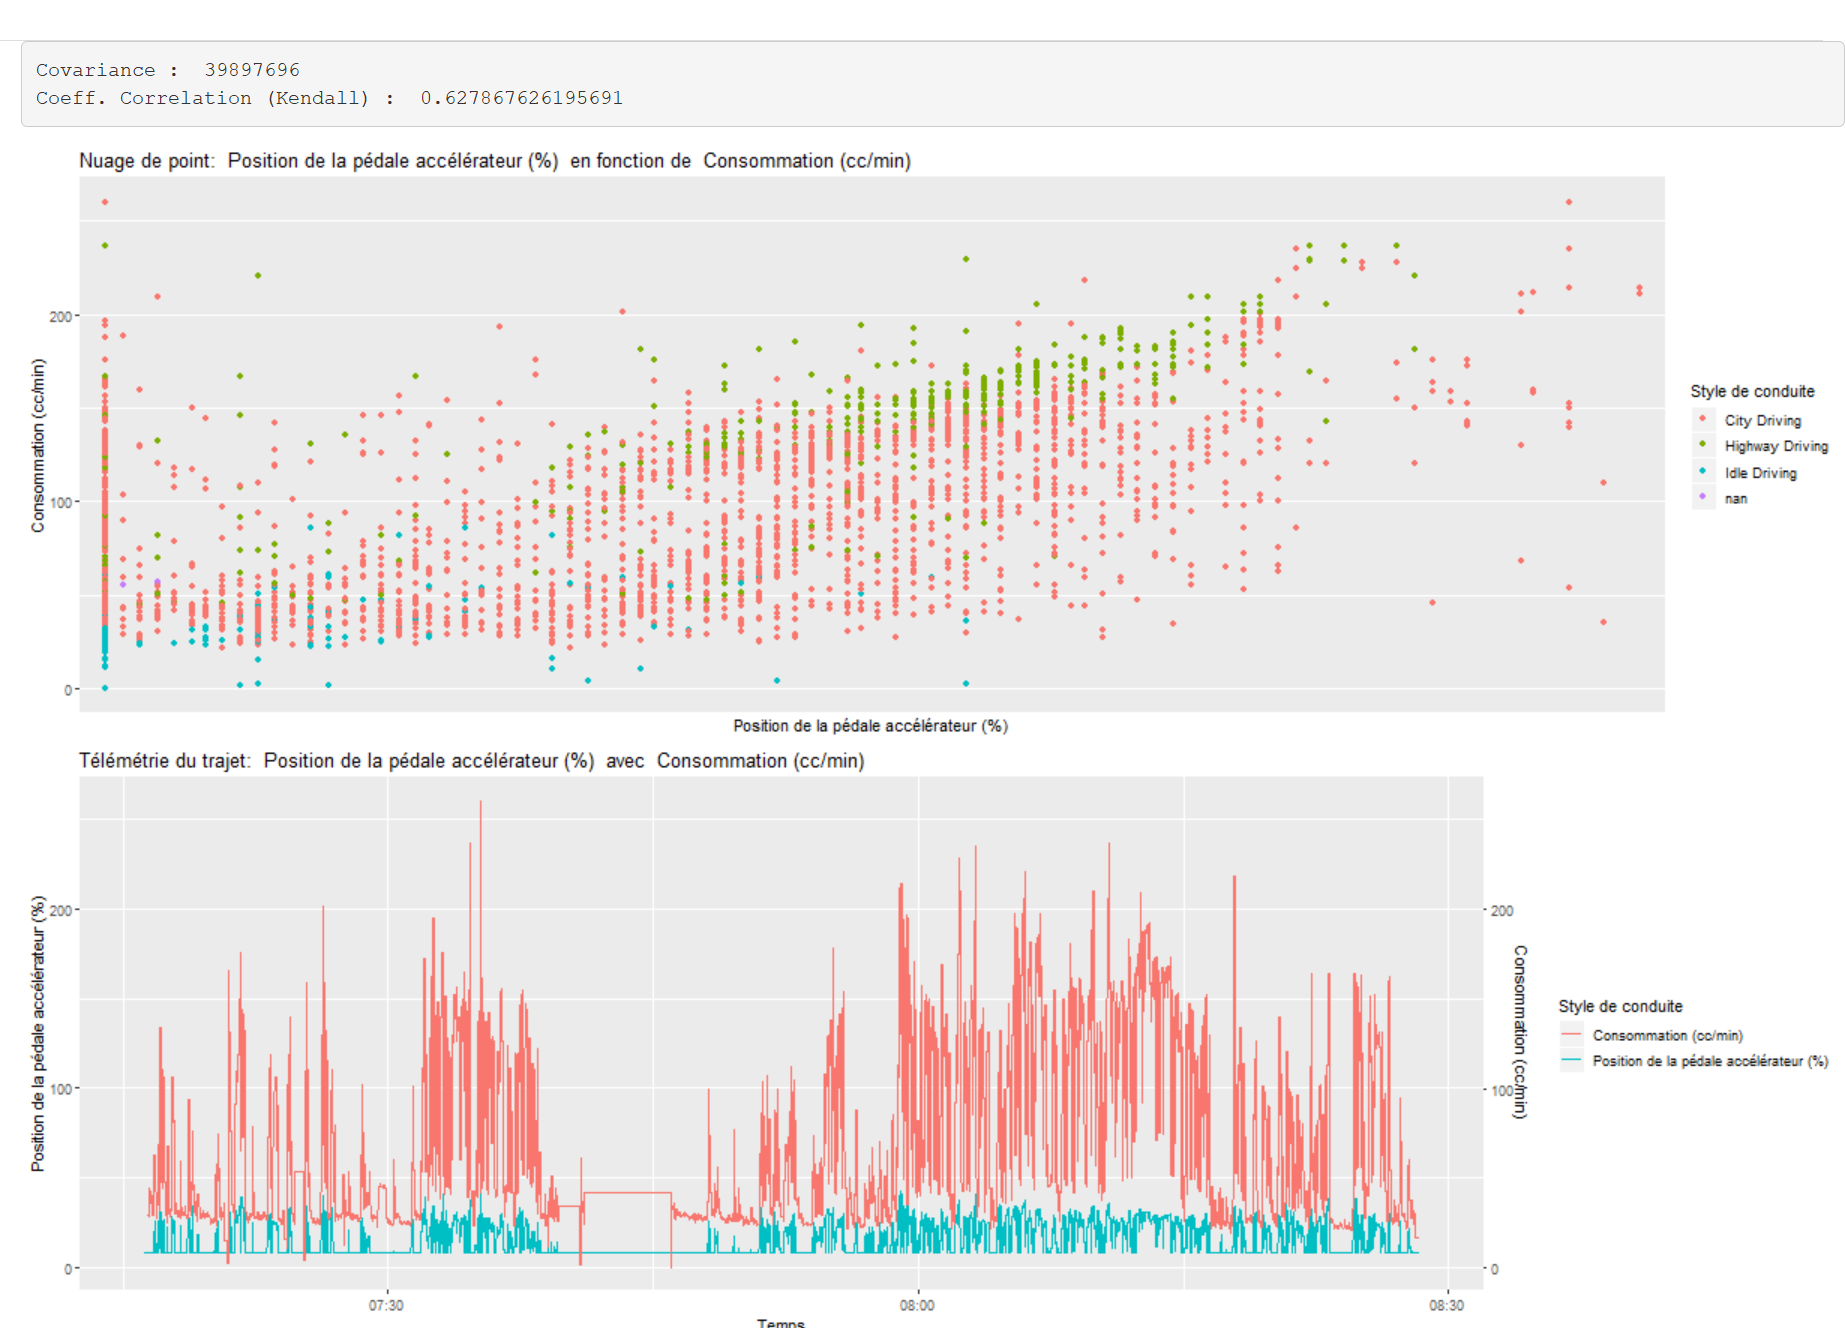
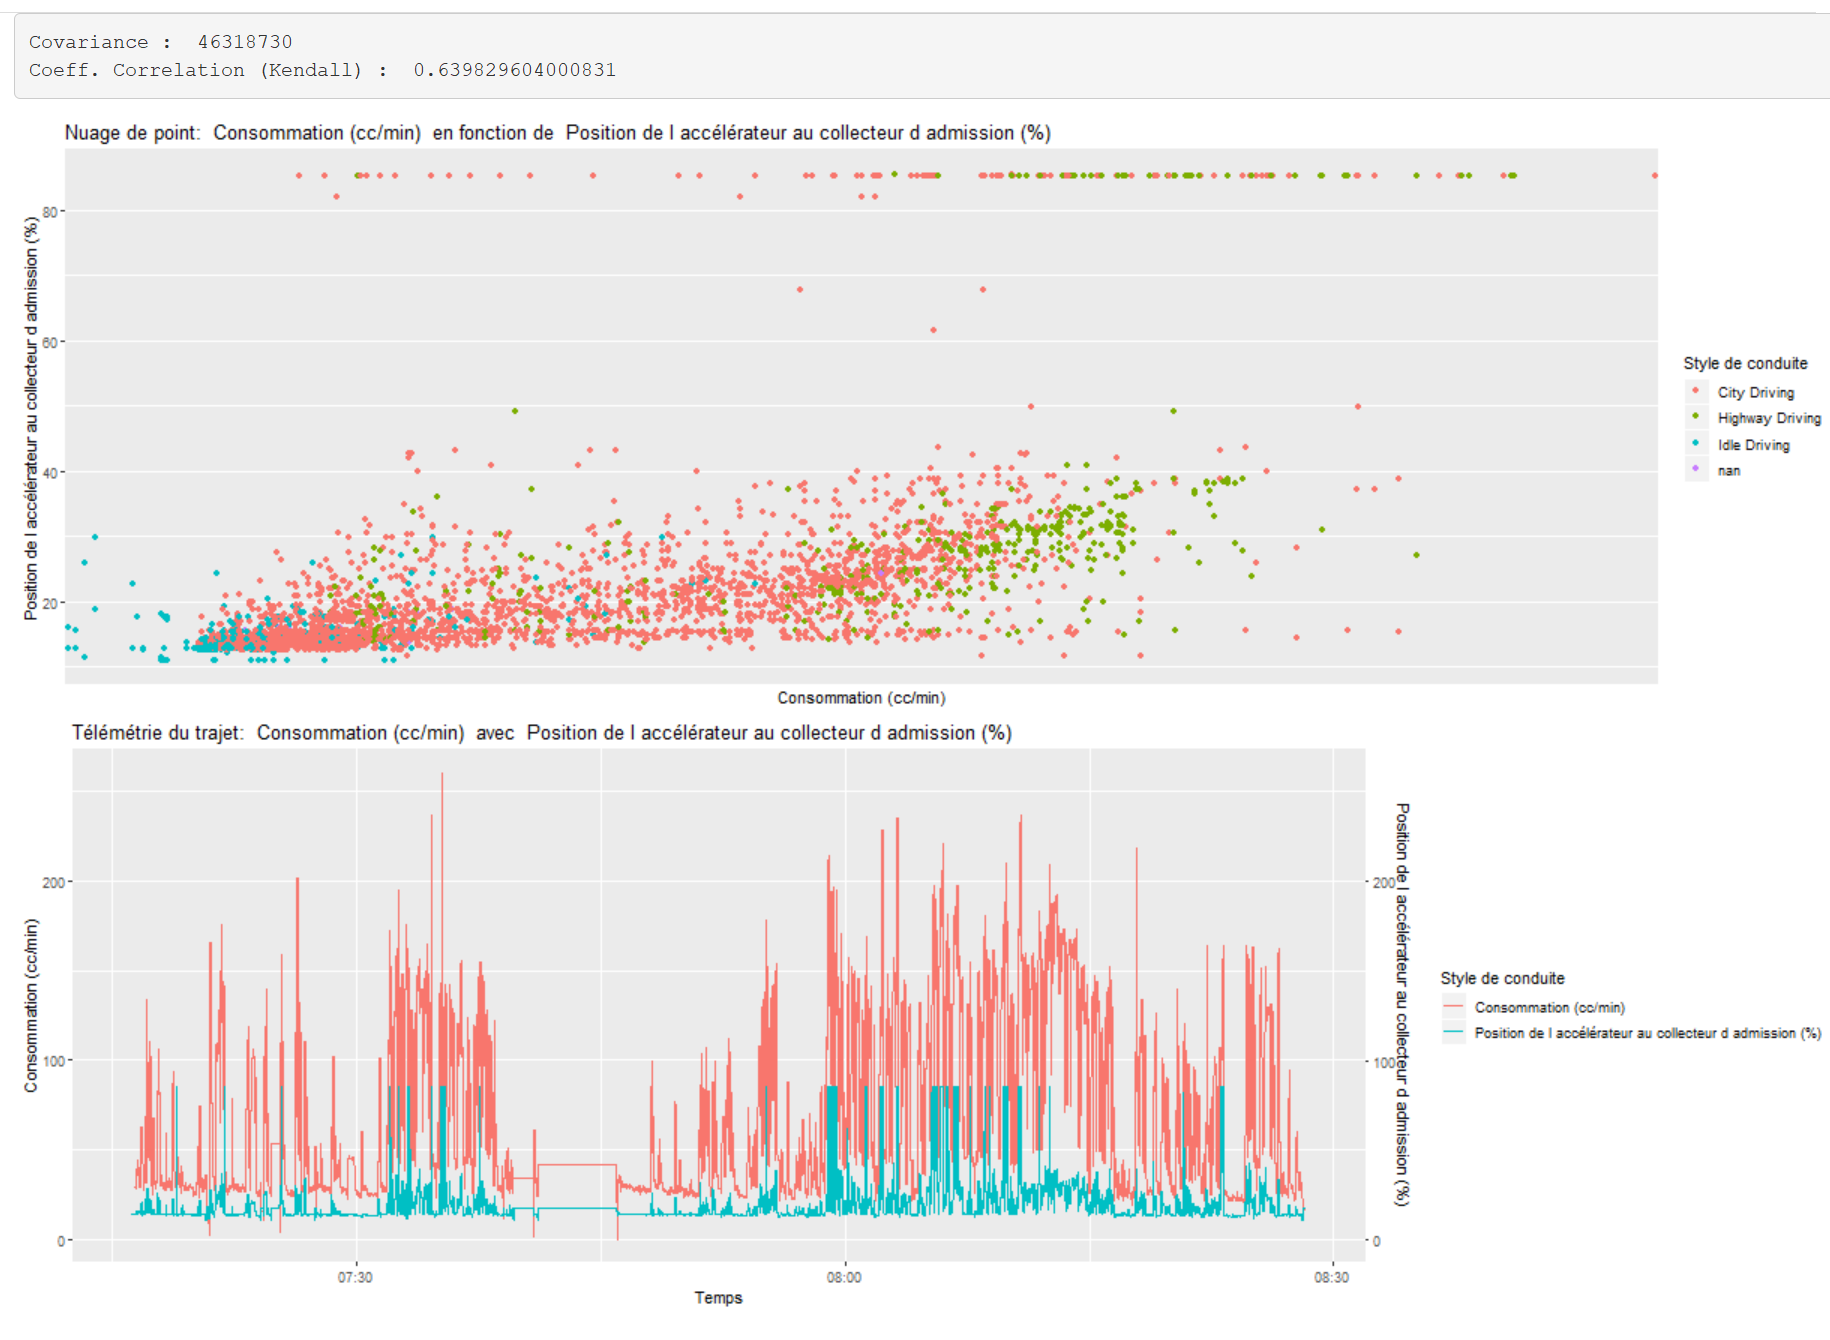
New image

diff --git a/Analyse.md b/Analyse.md
@@ -61,7 +61,7 @@ Regardons la relation qu'a la variable, position de la pédal d'accélérateur a
 Pour ce faire, nous allons utiliser l'onglet "Analyse Bivariée" qui nous permet de comparer deux variables.
 Commençons par comparer la position de la pédale d'accélérateuret la consommation 
 
-![alt text](https://raw.githubusercontent.com/nicomahery/ShinyCarLogs/master/images/Capture1.PNG "Données comparatives")
+![alt text](https://raw.githubusercontent.com/nicomahery/ShinyCarLogs/master/images/Capture1.PNG "Données comparatives entre la consommation et la position de la pédale d'accélérateur")
 
 On remarque en premier lieu un coefficient de corrélation au dessus de 0.5.
 Mais avec un coefficient de corrélation en dessous de 0.75, on ne peut pas affirmer que la corrélation est absolue entre le fait d'appuyer sur l'accélérateur et la consommation du véhicule.
@@ -70,6 +70,7 @@ Cela signifie que la consommation du véhicule peut être provoqué par autre ch
 Afin d'aller un peu plus loin il est nécessaire de regarder comment fonctionne l'accélérateur d'une voiture qui permet d'injecter plus ou moins de carburant dans le système de conbustion.
 Nous allons maintenant regarder comment réagit la position de l'accélérateur au niveau de l'admission 
 
+![alt text](https://raw.githubusercontent.com/nicomahery/ShinyCarLogs/master/images/Capture2.PNG "Données comparatives entre la consommation et la position de la pédale d'accélérateur")
 
 [^1]: ECU: Engine Control Unit, ordinateur qui gère l'ensemble du moteur (capteurs et actionneurs)
 [^2]: OBD2: Protocole du matériel permettant le diagnostique électronique sur les véhicules à partir des années 2000
